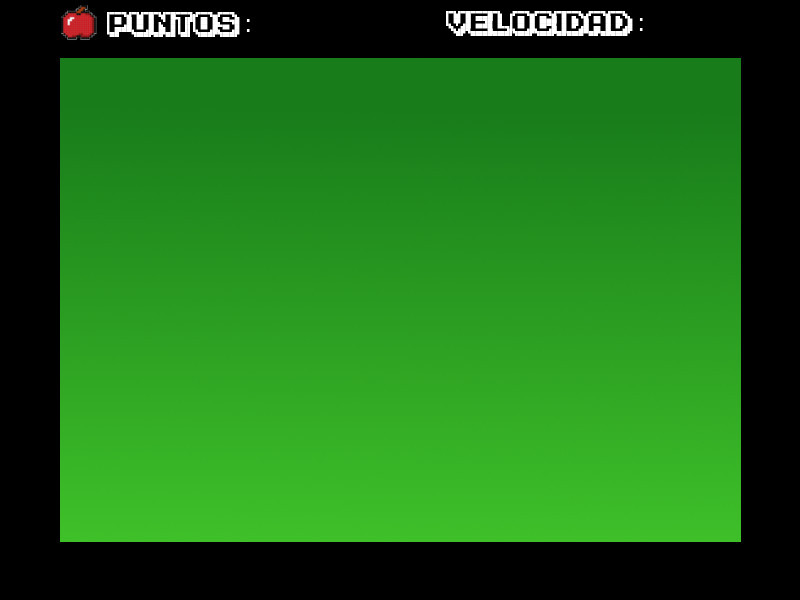
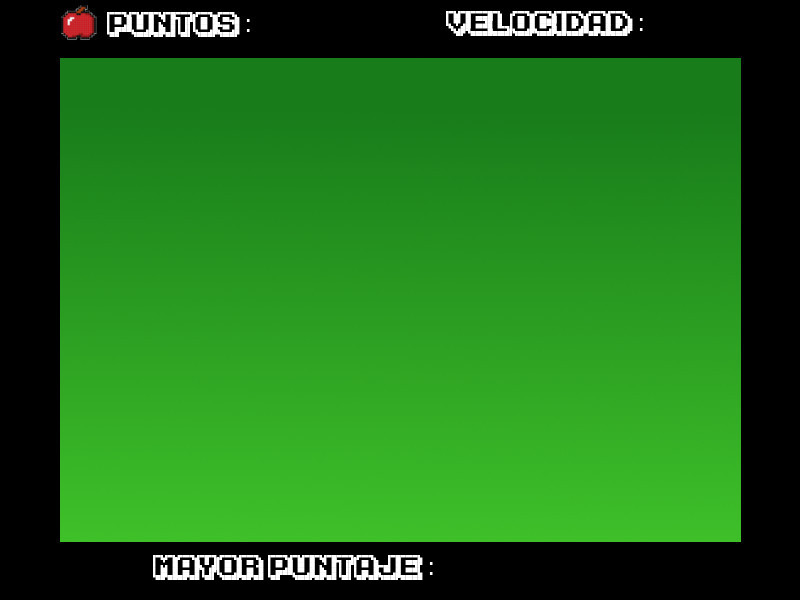
Agrega archivo txt que guarda el Maximo Puntaje

Changed region(s): [[0.1875, 0.9, 0.5312, 0.99]]

diff --git a/snake.py b/snake.py
@@ -16,10 +16,25 @@
 
 import pygame, random, time, os
 
+def readScore():
+    try:
+        archivo = open('score.txt','r')
+        hs = int(archivo.readline())
+        archivo.close()
+        return hs
+    except:
+        archivo = open ('score.txt','w')
+        archivo.write("0")
+        archivo.close()
+
+def saveScore(hscore):
+    archivo = open('score.txt','w')
+    archivo.write(hscore)
+    archivo.close()
+
 def loadImage (name):
     path = os.path.join('',name)
     return pygame.image.load(path).convert()
-
 pygame.init()
 
 intro = True
@@ -29,7 +44,7 @@ pygame.display.set_icon(icono)
 
 # Configuracion del juego
 
-pygame.display.set_caption("S.N.A.K.E.  v0.4")
+pygame.display.set_caption("S.N.A.K.E.  v0.6")
 ancho = 800
 alto = 600
 display =  pygame.display.set_mode((ancho, alto))
@@ -43,6 +58,10 @@ fuente = pygame.font.SysFont('ka1.ttf', 50)
 def puntos (score):
     txt = fuente.render(str(score), True, (255,255,255))
     display.blit (txt, [280, 8])      
+
+def puntoAlto (hs):
+    txt = fuente.render(str(hs), True, (255,255,255))
+    display.blit (txt, [280, 550])
 
 def pausa ():
     pausado = True
@@ -155,6 +174,7 @@ def Juego(intro=True):
     snakeLista = []
     snakeLen = 1
     scored = 0
+    hScore = readScore()
 
     #Variable M. Roja
     rojaX = round(random.randrange(70,ancho-70)/20.0) * snakeSize
@@ -181,25 +201,7 @@ def Juego(intro=True):
     
     
     while not gameExit:
-        
-        """ while (gameOver):
-            
-         #   display.blit(bgDisplay,[0,0])
-            pulsarSound.stop()
-            screenMsg("Game Over!", (255,0,0), -50)
-            screenMsg("Para salir presione 'Q'",(0,0,0), 50)
-            pygame.display.update()
-            
-            for event in pygame.event.get():
                 
-                if event.type == pygame.KEYDOWN:
-                    if event.type == pygame.K_ESCAPE:
-                        gameExit = True
-                        gameOver = False
-                    if event.type == pygame.K_c:
-                        gameOver = False
-                        Juego()
-         """        
         for event in pygame.event.get():
             if event.type == pygame.QUIT:
                 gameExit = True
@@ -260,8 +262,10 @@ def Juego(intro=True):
 
         snake (snakeSize,snakeLista)
         puntos (scored)
+        maximoPuntaje = fuente.render (str(hScore), True,(255,255,255))
         txt = fuente.render( str (speed), True, (255,255,255))
         display.blit (txt, [680, 8])   
+        display.blit (maximoPuntaje, [475,552])
         pygame.display.update()
 
         if moverX == rojaX and moverY == rojaY:
@@ -281,8 +285,7 @@ def Juego(intro=True):
             verdeX = round(random.randrange(70,ancho-70)/20.0) * snakeSize
             verdeY = round(random.randrange(70,alto-70)/20.0) * snakeSize
             speed += 1           
-            
-                
+                            
         if moverX == moradaX and moverY == moradaY:
             pygame.mixer_music.load("MoradaEat.ogg")
             pygame.mixer_music.play(0)
@@ -291,7 +294,10 @@ def Juego(intro=True):
             scored += 3
             snakeLen += 10
 
-
+        if scored > hScore:
+            hScore = scored
+            saveScore(str(hScore))
+        
         clock.tick(fps)
 
 Juego()
